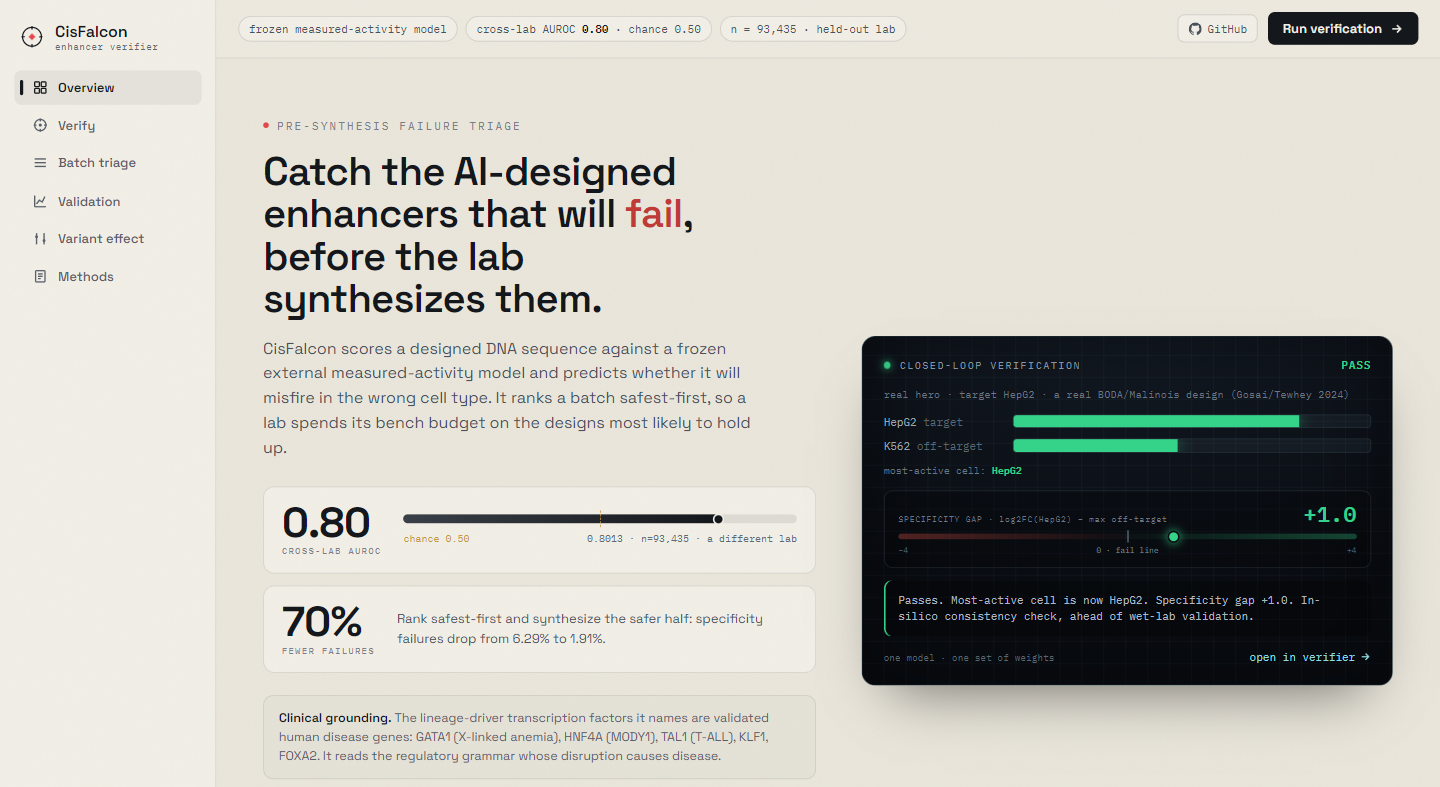
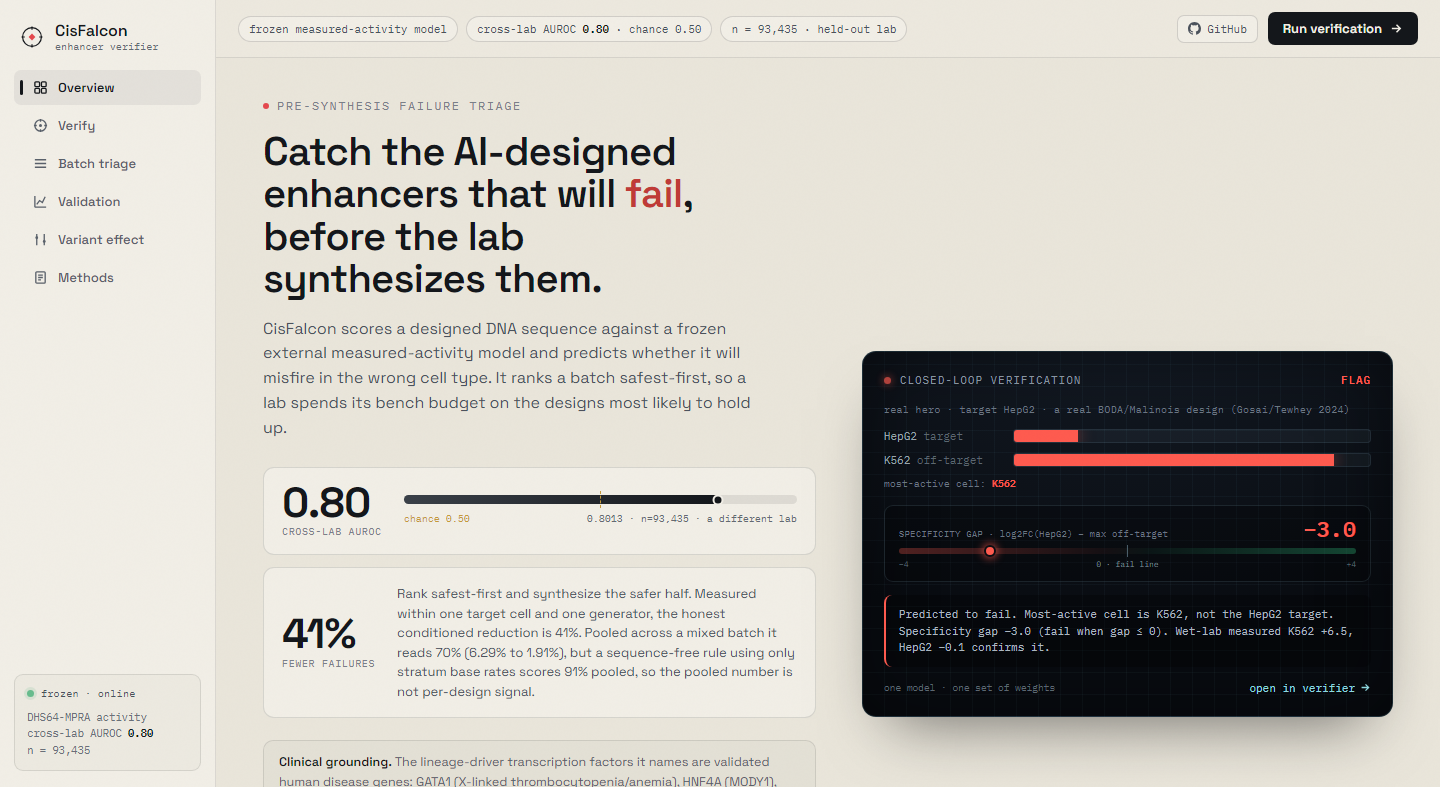
Re-capture the hero from the corrected live page

diff --git a/docs/recapture_hero.py b/docs/recapture_hero.py
@@ -1,0 +1,53 @@
+"""Re-capture docs/hero_overview.png from the LIVE corrected page.
+
+The hero is a screenshot, so a stale hero is fixed by redeploying and re-shooting rather than
+by editing pixels. It rendered the disowned pooled 70% for as long as the deployed page did.
+
+Viewport matches the existing asset (1440x787) so the README's layout does not shift.
+Verifies afterwards that the corrected figures are present and the disowned ones are gone,
+because a screenshot that silently captured the wrong scroll position or a pre-hydration
+frame looks fine and asserts nothing.
+"""
+
+import sys
+from pathlib import Path
+
+from playwright.sync_api import sync_playwright
+
+URL = "https://cisfalcon-lifesci.fly.dev/"
+OUT = Path(__file__).resolve().parent / "hero_overview.png"
+W, H = 1440, 787
+
+# Scoped to what the OVERVIEW tab actually shows. The conditioned enrichment (2.59x) lives on
+# the Batch triage tab, so requiring it here refused a correct page. Verified by probing the
+# live DOM: 2.59 and 7.74 are in the HTML but not in Overview's visible text.
+MUST_APPEAR = ["41%", "6.29"]
+# The disowned bare headline must be gone. 70% may still appear, but only labelled as the
+# pooled basis, which the adjacent 41% card states explicitly.
+MUST_BE_ABSENT = ["70% FEWER", "7.8x"]
+
+with sync_playwright() as p:
+    b = p.chromium.launch()
+    pg = b.new_page(viewport={"width": W, "height": H}, device_scale_factor=1)
+    pg.goto(URL, wait_until="networkidle", timeout=60_000)
+    pg.wait_for_timeout(1500)
+
+    text = pg.inner_text("body")
+    missing = [s for s in MUST_APPEAR if s not in text]
+    if missing:
+        print(f"REFUSING to capture: live page lacks {missing}", file=sys.stderr)
+        b.close()
+        raise SystemExit(1)
+    stale = [s for s in MUST_BE_ABSENT if s in text]
+    if stale:
+        print(
+            f"REFUSING to capture: disowned headline still present {stale}",
+            file=sys.stderr,
+        )
+        b.close()
+        raise SystemExit(1)
+
+    pg.screenshot(path=str(OUT), clip={"x": 0, "y": 0, "width": W, "height": H})
+    b.close()
+
+print(f"wrote {OUT} ({OUT.stat().st_size} bytes)")
